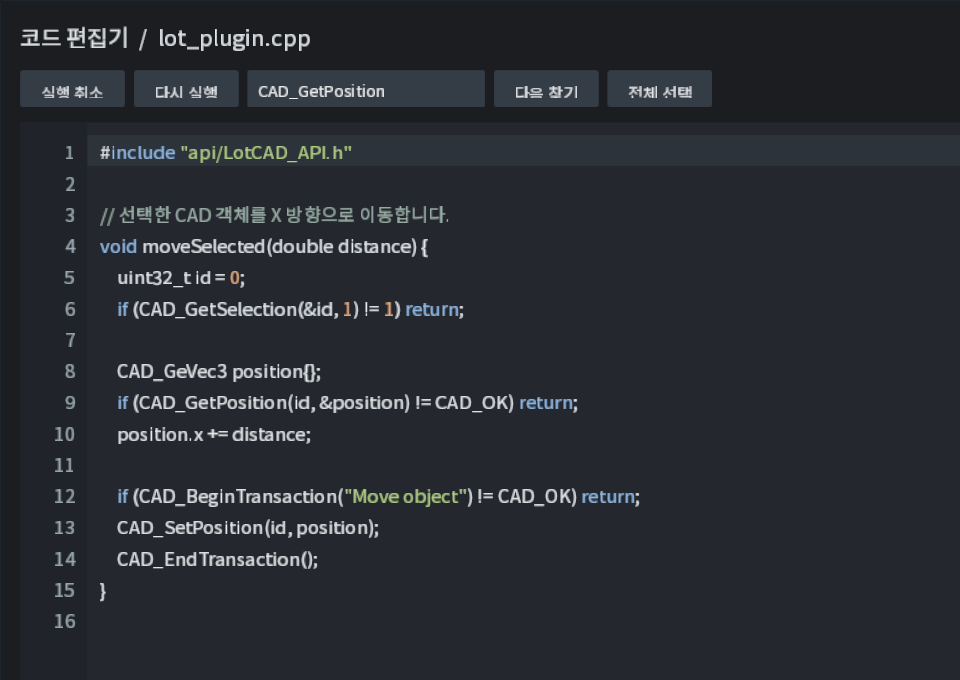
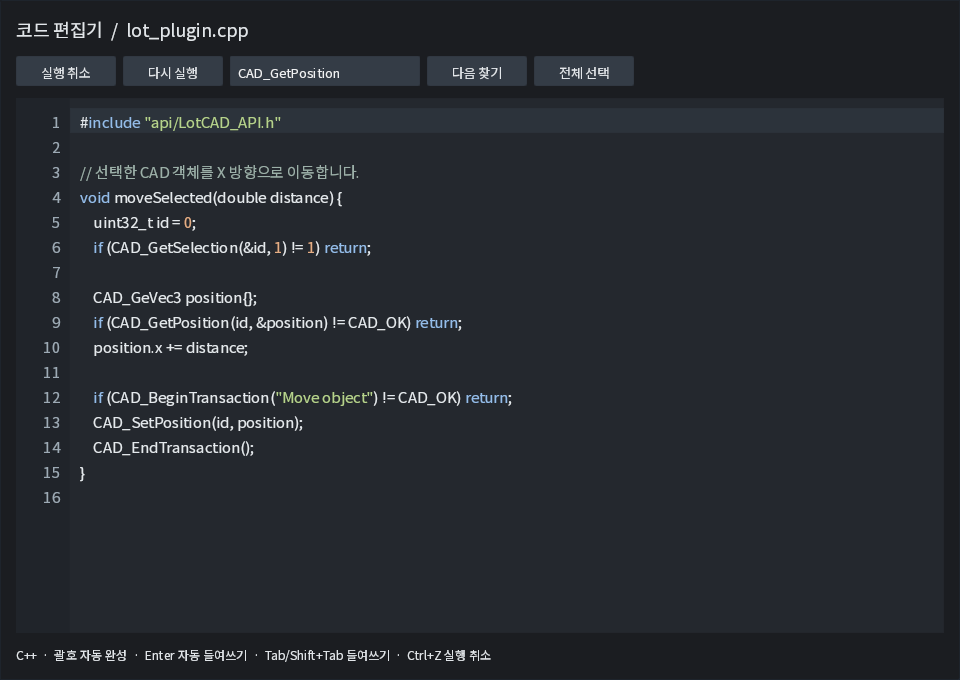
Improve code editor bracket pairs and indentation

diff --git a/widgets/code_editor.cpp b/widgets/code_editor.cpp
@@ -44,6 +44,15 @@ std::string normalizeNewlines(std::string_view text) {
     return result;
 }
 
+char closingBracket(char opening) noexcept {
+    switch (opening) {
+    case '(': return ')';
+    case '[': return ']';
+    case '{': return '}';
+    default: return '\0';
+    }
+}
+
 Color tokenColor(const CodeEditorStyle& style, CodeTokenKind kind) noexcept {
     switch (kind) {
     case CodeTokenKind::Keyword: return style.keyword;
@@ -367,6 +376,13 @@ bool CodeEditor::onKeyEvent(const WidgetKeyEvent& event) {
         moveTo(lineEnd(lineOf(cursor_)), event.modifiers.shift);
         return true;
     case KeyCode::Backspace:
+        if (!hasSelection() && cursor_ > 0 && cursor_ < text_.size() &&
+            closingBracket(text_[cursor_ - 1]) == text_[cursor_]) {
+            anchor_ = cursor_ - 1;
+            ++cursor_;
+            replaceSelection({});
+            return true;
+        }
         if (!hasSelection() && cursor_ > 0)
             anchor_ = previousPoint(text_, cursor_);
         replaceSelection({});
@@ -377,12 +393,24 @@ bool CodeEditor::onKeyEvent(const WidgetKeyEvent& event) {
         replaceSelection({});
         return true;
     case KeyCode::Enter: {
-        const std::size_t start = lineStarts_[lineOf(selectionStart())];
-        const std::size_t end = lineEnd(lineOf(selectionStart()));
+        const std::size_t position = selectionStart();
+        const std::size_t start = lineStarts_[lineOf(position)];
+        const std::size_t end = lineEnd(lineOf(position));
         std::size_t indent = start;
         while (indent < end && (text_[indent] == ' ' || text_[indent] == '\t'))
             ++indent;
-        replaceSelection("\n" + text_.substr(start, indent - start));
+        const std::string base = text_.substr(start, indent - start);
+        std::size_t preceding = position;
+        while (preceding > start &&
+            (text_[preceding - 1] == ' ' || text_[preceding - 1] == '\t'))
+            --preceding;
+        const bool opensBlock = preceding > start && text_[preceding - 1] == '{';
+        const std::string inner = base + (opensBlock ? "    " : "");
+        const bool splitsPair = opensBlock && selectionEnd() < text_.size() &&
+            text_[selectionEnd()] == '}';
+        replaceSelection("\n" + inner +
+            (splitsPair ? "\n" + base : ""));
+        if (splitsPair) moveTo(position + 1 + inner.size(), false);
         return true;
     }
     case KeyCode::Tab:
@@ -406,7 +434,60 @@ bool CodeEditor::onTextInputEvent(const TextInputEvent& event) {
     switch (event.type) {
     case TextInputEventType::Commit:
         composition_.clear();
-        if (!event.text.empty()) replaceSelection(normalizeNewlines(event.text));
+        if (!event.text.empty()) {
+            const std::string value = normalizeNewlines(event.text);
+            if (value.size() == 1) {
+                const char character = value.front();
+                const char close = closingBracket(character);
+                if (close != '\0') {
+                    const std::size_t start = selectionStart();
+                    const std::size_t selected = selectionEnd() - start;
+                    const std::string inside = selectedText();
+                    replaceSelection(std::string(1, character) + inside + close);
+                    anchor_ = start + 1;
+                    cursor_ = anchor_ + selected;
+                    revealCursor();
+                    return true;
+                }
+                if (!hasSelection() && cursor_ < text_.size() &&
+                    text_[cursor_] == character &&
+                    (character == ')' || character == ']' || character == '}')) {
+                    moveTo(cursor_ + 1, false);
+                    return true;
+                }
+                if (character == '}' && !hasSelection()) {
+                    const std::size_t start = lineStarts_[lineOf(cursor_)];
+                    if (text_.find_first_not_of(" \t", start) >= cursor_) {
+                        if (cursor_ < text_.size() && text_[cursor_] == '\n') {
+                            const std::size_t nextStart = cursor_ + 1;
+                            const std::size_t nextEnd = lineEnd(lineOf(nextStart));
+                            std::size_t closeOffset = nextStart;
+                            while (closeOffset < nextEnd &&
+                                (text_[closeOffset] == ' ' ||
+                                    text_[closeOffset] == '\t'))
+                                ++closeOffset;
+                            if (closeOffset + 1 == nextEnd &&
+                                text_[closeOffset] == '}') {
+                                anchor_ = start;
+                                cursor_ = nextStart;
+                                replaceSelection({});
+                                moveTo(start + closeOffset - nextStart + 1,
+                                    false);
+                                return true;
+                            }
+                        }
+                        const std::size_t spaces = cursor_ - start;
+                        const std::size_t remove = spaces > 0 &&
+                            text_[cursor_ - 1] == '\t' ? 1 :
+                            std::min<std::size_t>(4, spaces);
+                        anchor_ = cursor_ - remove;
+                        replaceSelection("}");
+                        return true;
+                    }
+                }
+            }
+            replaceSelection(value);
+        }
         return true;
     case TextInputEventType::Composition:
         composition_ = event.text;

diff --git a/tests/code_editor_tests.cpp b/tests/code_editor_tests.cpp
@@ -137,6 +137,59 @@ void selectionClipboardAndFind() {
         "multi-line outdent should be one undo step");
 }
 
+void bracketsAndAutomaticIndentation() {
+    auto engine = std::make_shared<TestEngine>();
+    auto widget = std::make_unique<lotui::CodeEditor>(engine, "");
+    auto* editor = widget.get();
+    lotui::WidgetTree tree(std::move(widget));
+    tree.layout({0.0F, 0.0F, 420.0F, 180.0F});
+    tree.keyPressed(lotui::KeyCode::Tab);
+
+    tree.textInput({lotui::TextInputEventType::Commit, "{"});
+    require(editor->text() == "{}" && editor->cursorByteOffset() == 1,
+        "opening brace should insert a pair and leave caret inside");
+    tree.keyPressed(lotui::KeyCode::Enter);
+    require(editor->text() == "{\n    \n}" && editor->cursorByteOffset() == 6,
+        "Enter between braces should indent the body and align the close");
+    tree.textInput({lotui::TextInputEventType::Commit, "("});
+    tree.textInput({lotui::TextInputEventType::Commit, "["});
+    require(editor->text() == "{\n    ([])\n}",
+        "parentheses and square brackets should nest");
+    tree.keyPressed(lotui::KeyCode::Backspace);
+    require(editor->text() == "{\n    ()\n}",
+        "Backspace inside an empty pair should remove both brackets");
+    tree.textInput({lotui::TextInputEventType::Commit, ")"});
+    require(editor->text() == "{\n    ()\n}" && editor->cursorByteOffset() == 8,
+        "typing an existing close should move past it");
+    require(editor->undo() && editor->text() == "{\n    ([])\n}",
+        "skipping a close should not create an undo step");
+
+    editor->setText("");
+    tree.textInput({lotui::TextInputEventType::Commit, "{"});
+    tree.keyPressed(lotui::KeyCode::Enter);
+    tree.textInput({lotui::TextInputEventType::Commit, "}"});
+    require(editor->text() == "{\n}" && editor->cursorByteOffset() == 3,
+        "typing a close on the blank body should reuse the existing brace");
+
+    editor->setText("if (ready) {");
+    tree.keyPressed(lotui::KeyCode::End);
+    tree.keyPressed(lotui::KeyCode::Enter);
+    require(editor->text() == "if (ready) {\n    ",
+        "Enter after an opening brace should add one indent level");
+    tree.textInput({lotui::TextInputEventType::Commit, "}"});
+    require(editor->text() == "if (ready) {\n}",
+        "typing a close on an empty indented line should outdent");
+
+    editor->setText("item");
+    editor->selectAll();
+    tree.textInput({lotui::TextInputEventType::Commit, "("});
+    require(editor->text() == "(item)" && editor->selectedText() == "item",
+        "opening bracket should wrap a selection and preserve it");
+    tree.textInput({lotui::TextInputEventType::Commit, "value"});
+    require(editor->text() == "(value)",
+        "replacement of wrapped selection should retain brackets");
+}
+
 void scrollsAndClips() {
     auto engine = std::make_shared<TestEngine>();
     std::string content;
@@ -165,6 +218,7 @@ void scrollsAndClips() {
 int main() {
     editsUtf8AndHistory();
     selectionClipboardAndFind();
+    bracketsAndAutomaticIndentation();
     scrollsAndClips();
     return 0;
 }

diff --git a/examples/code_editor_demo/main.cpp b/examples/code_editor_demo/main.cpp
@@ -90,6 +90,7 @@ std::unique_ptr<lotui::Button> button(
     style.hovered = desktopColor(0x45515d);
     style.pressed = desktopColor(0x2c3540);
     style.cornerRadius = 3.0F;
+    style.contentPadding = {10.0F, 3.0F, 10.0F, 3.0F};
     return std::make_unique<lotui::Button>(
         label(engine, std::move(title), 13.0F),
         lotui::Size{width, 30.0F}, std::move(action), style);
@@ -114,10 +115,10 @@ std::unique_ptr<lotui::WidgetTree> buildUi(
     toolbarOptions.spacing = 7.0F;
     toolbarOptions.crossAxisAlignment = lotui::CrossAxisAlignment::Center;
     toolbar->setOptions(toolbarOptions);
-    toolbar->addChild(button(engine, "실행 취소", 84.0F,
-        [&state] { state.editor->undo(); }), fixed(84.0F, 30.0F));
-    toolbar->addChild(button(engine, "다시 실행", 84.0F,
-        [&state] { state.editor->redo(); }), fixed(84.0F, 30.0F));
+    toolbar->addChild(button(engine, "실행 취소", 100.0F,
+        [&state] { state.editor->undo(); }), fixed(100.0F, 30.0F));
+    toolbar->addChild(button(engine, "다시 실행", 100.0F,
+        [&state] { state.editor->redo(); }), fixed(100.0F, 30.0F));
 
     lotui::TextFieldStyle searchStyle;
     searchStyle.normal = desktopColor(0x343c46);
@@ -139,13 +140,13 @@ std::unique_ptr<lotui::WidgetTree> buildUi(
             return window.writeClipboardText(std::move(text));
         }, [&window] { return window.readClipboardText(); });
     toolbar->addChild(std::move(search), fixed(190.0F, 30.0F));
-    toolbar->addChild(button(engine, "다음 찾기", 84.0F,
+    toolbar->addChild(button(engine, "다음 찾기", 100.0F,
         [&state] {
             if (!state.editor->findNext(state.search->text()))
                 state.status->setText("검색 결과가 없습니다.");
-        }), fixed(84.0F, 30.0F));
-    toolbar->addChild(button(engine, "전체 선택", 84.0F,
-        [&state] { state.editor->selectAll(); }), fixed(84.0F, 30.0F));
+        }), fixed(100.0F, 30.0F));
+    toolbar->addChild(button(engine, "전체 선택", 100.0F,
+        [&state] { state.editor->selectAll(); }), fixed(100.0F, 30.0F));
     root->addChild(std::move(toolbar), height(34.0F));
 
     lotui::CodeEditorStyle editorStyle;
@@ -174,7 +175,7 @@ std::unique_ptr<lotui::WidgetTree> buildUi(
     root->addChild(std::move(editor), stretch());
 
     auto status = label(engine,
-        "C++  ·  Ctrl+F 대신 위 검색창 사용  ·  Tab 들여쓰기  ·  Ctrl+Z 실행 취소",
+        "C++  ·  괄호 자동 완성  ·  Enter 자동 들여쓰기  ·  Tab/Shift+Tab 들여쓰기  ·  Ctrl+Z 실행 취소",
         12.0F);
     state.status = status.get();
     root->addChild(std::move(status), height(23.0F));

diff --git a/examples/code_editor_demo/README.md b/examples/code_editor_demo/README.md
@@ -6,7 +6,9 @@ text; LotUI does not link to 3dEngine or execute the code.
 
 The editor supports line numbers, shared syntax colors for C++ and other
 languages accepted by `tokenizeCodeLine`, pointer selection, UTF-8 insertion,
-IME composition, indentation, find-next, clipboard shortcuts, vertical
+IME composition, automatic `()`, `[]` and `{}` pairing, selection wrapping,
+paired deletion, four-space indentation after `{`, aligned closing braces,
+Tab/Shift+Tab indentation, find-next, clipboard shortcuts, vertical
 scrolling, and Undo/Redo. The toolbar demonstrates its public API. Code text
 and callbacks stay in the consumer application; plugins can instantiate the
 same widget using the SDK `LotUI::Widgets` target.
